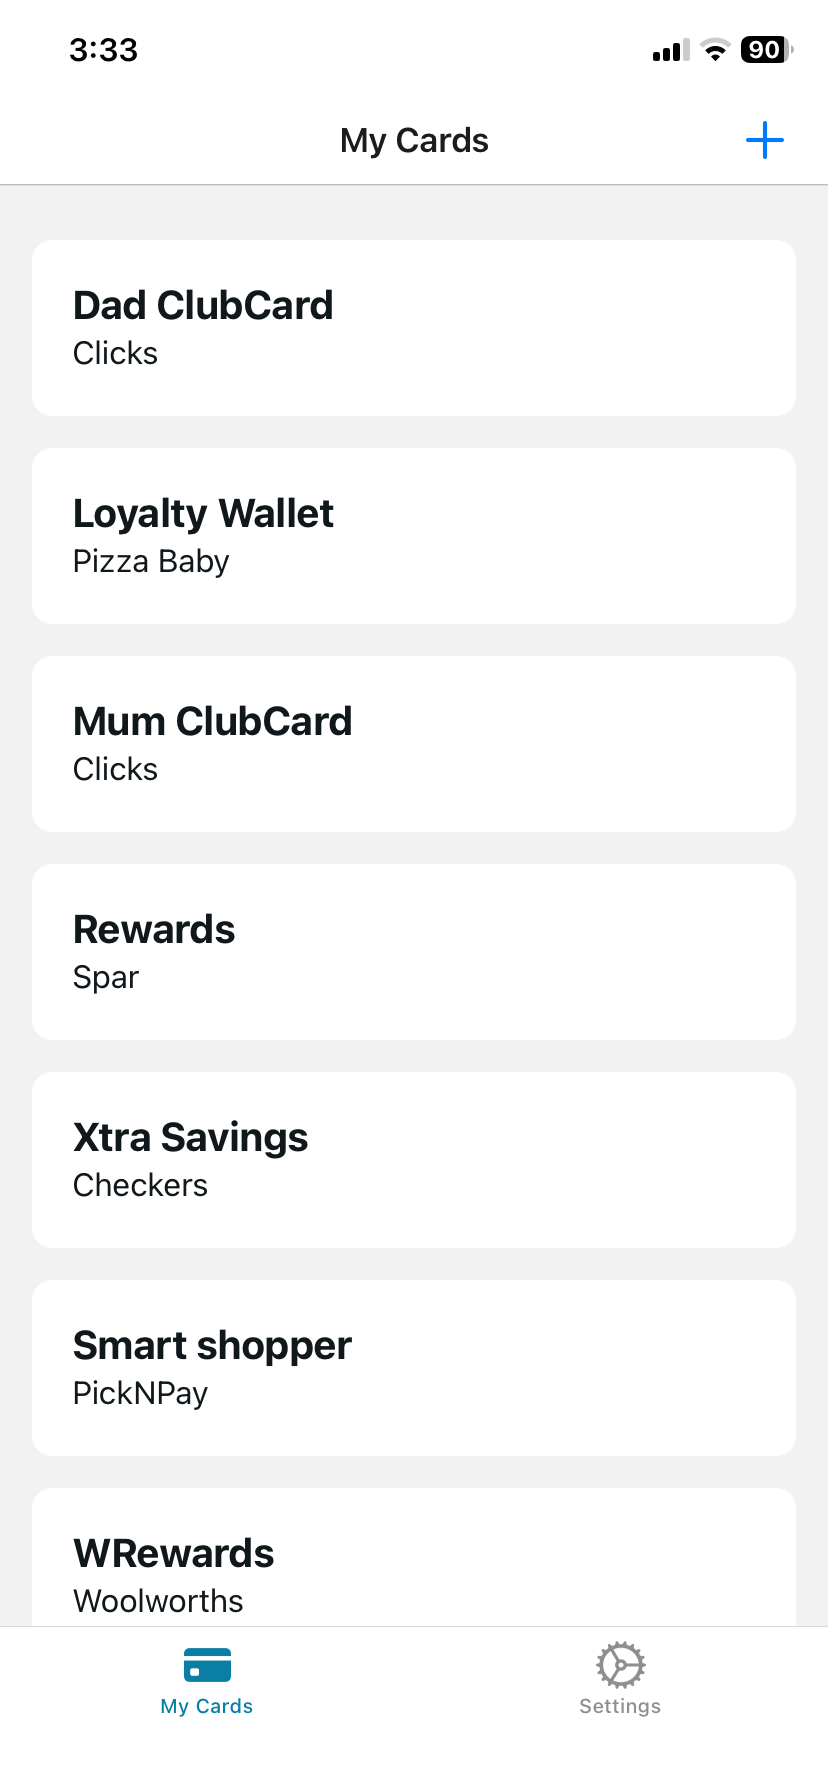
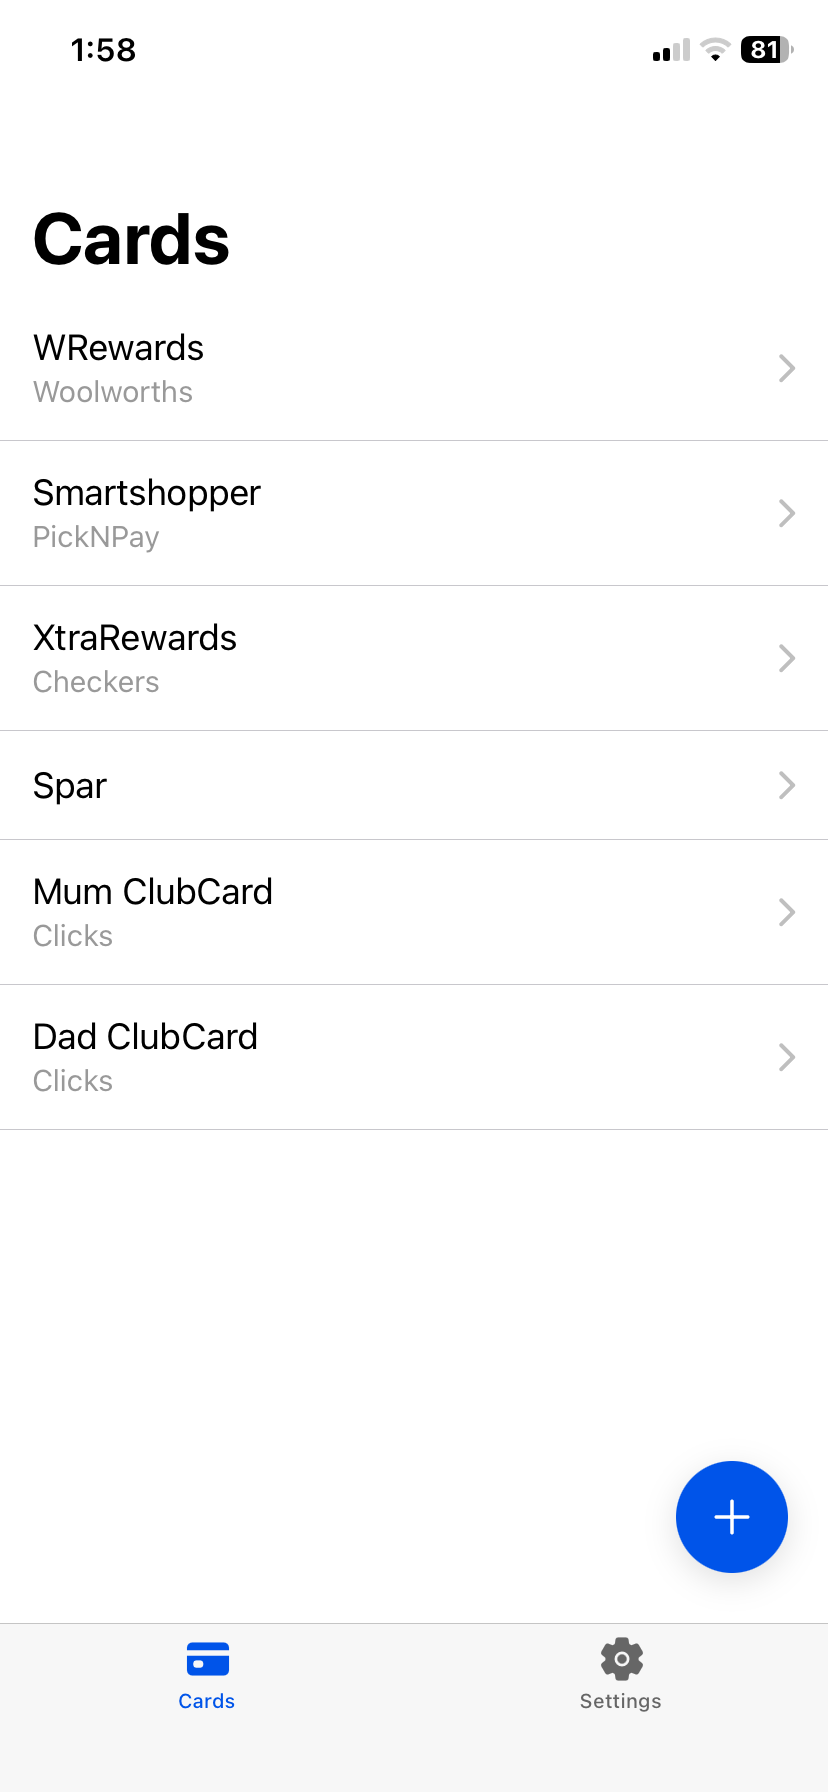
docs(kadhi): add updated screenshots & tech stack

diff --git a/src/pages/projects/kadhi/index.md b/src/pages/projects/kadhi/index.md
@@ -19,10 +19,10 @@ The goal of Kadhi is to make loyalty cards **easier to access, organize, and use
 
 Kadhi is built using a modern cross-platform mobile stack:
 
-- **React Native + Expo** — cross-platform mobile development
+- **Capacitor + Ionic** — cross-platform mobile development
+- **Vue 3** - progressive JavaScript framework
 - **TypeScript** — type-safe development
-- **Drizzle ORM** — structured local data management
-- **Zustand** — lightweight state management
+- **Pinia** — lightweight state management
 - **SQLite** — local data storage
 
 
@@ -31,6 +31,8 @@ Kadhi is built using a modern cross-platform mobile stack:
 <div class="project-mobile-screenshots">
   <img src="/projects/kadhi/app-screenshot-1.png" alt="Kadhi Screenshot 1">
   <img src="/projects/kadhi/app-screenshot-2.png" alt="Kadhi Screenshot 2">
+  <img src="/projects/kadhi/app-screenshot-3.png" alt="Kadhi Screenshot 3">
+  <img src="/projects/kadhi/app-screenshot-4.png" alt="Kadhi Screenshot 4">
 </div>
 
 ## Try it Out
